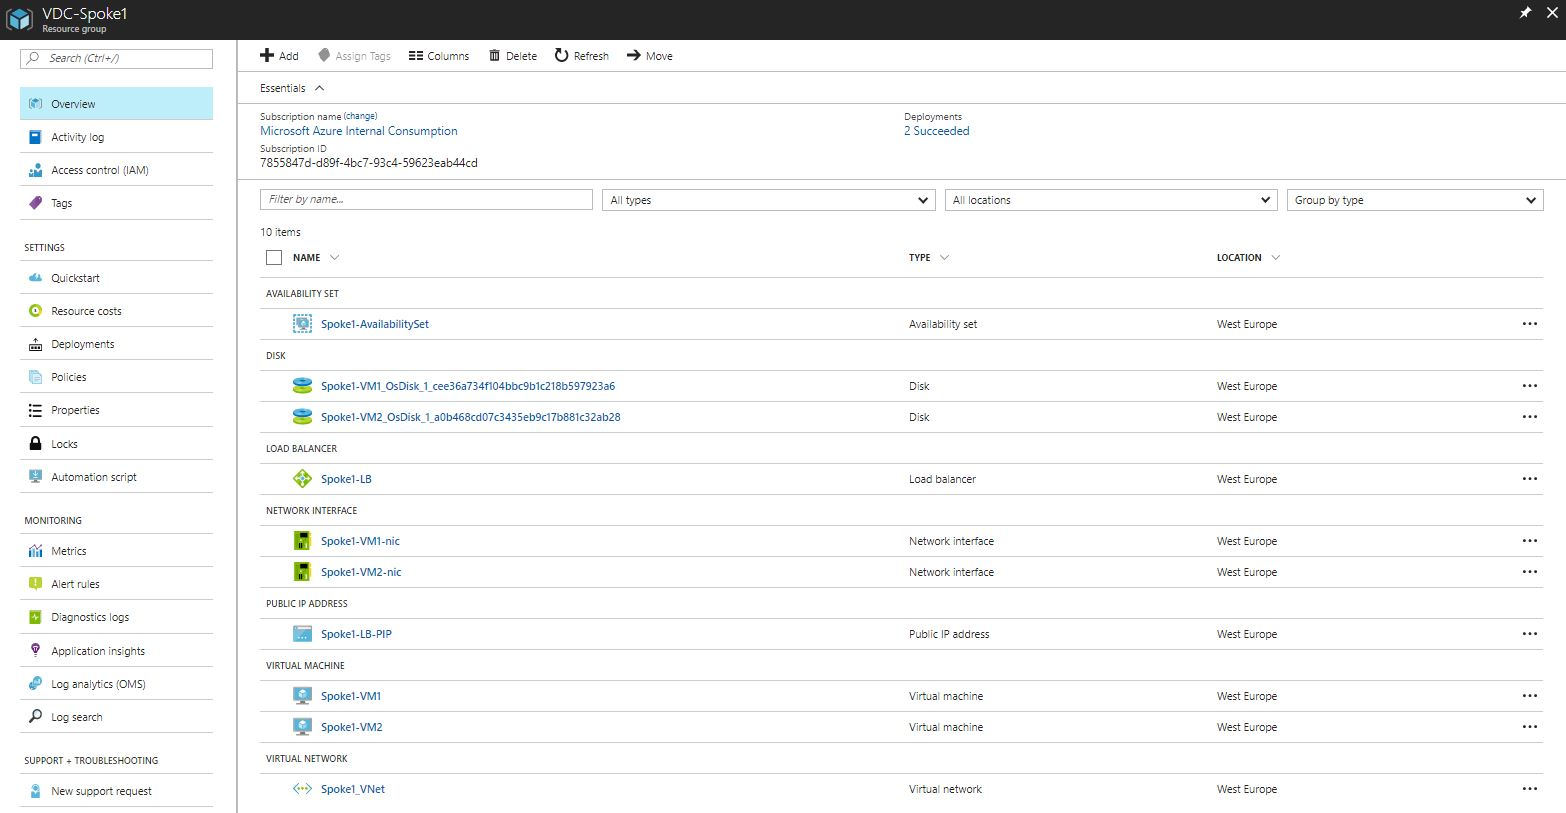
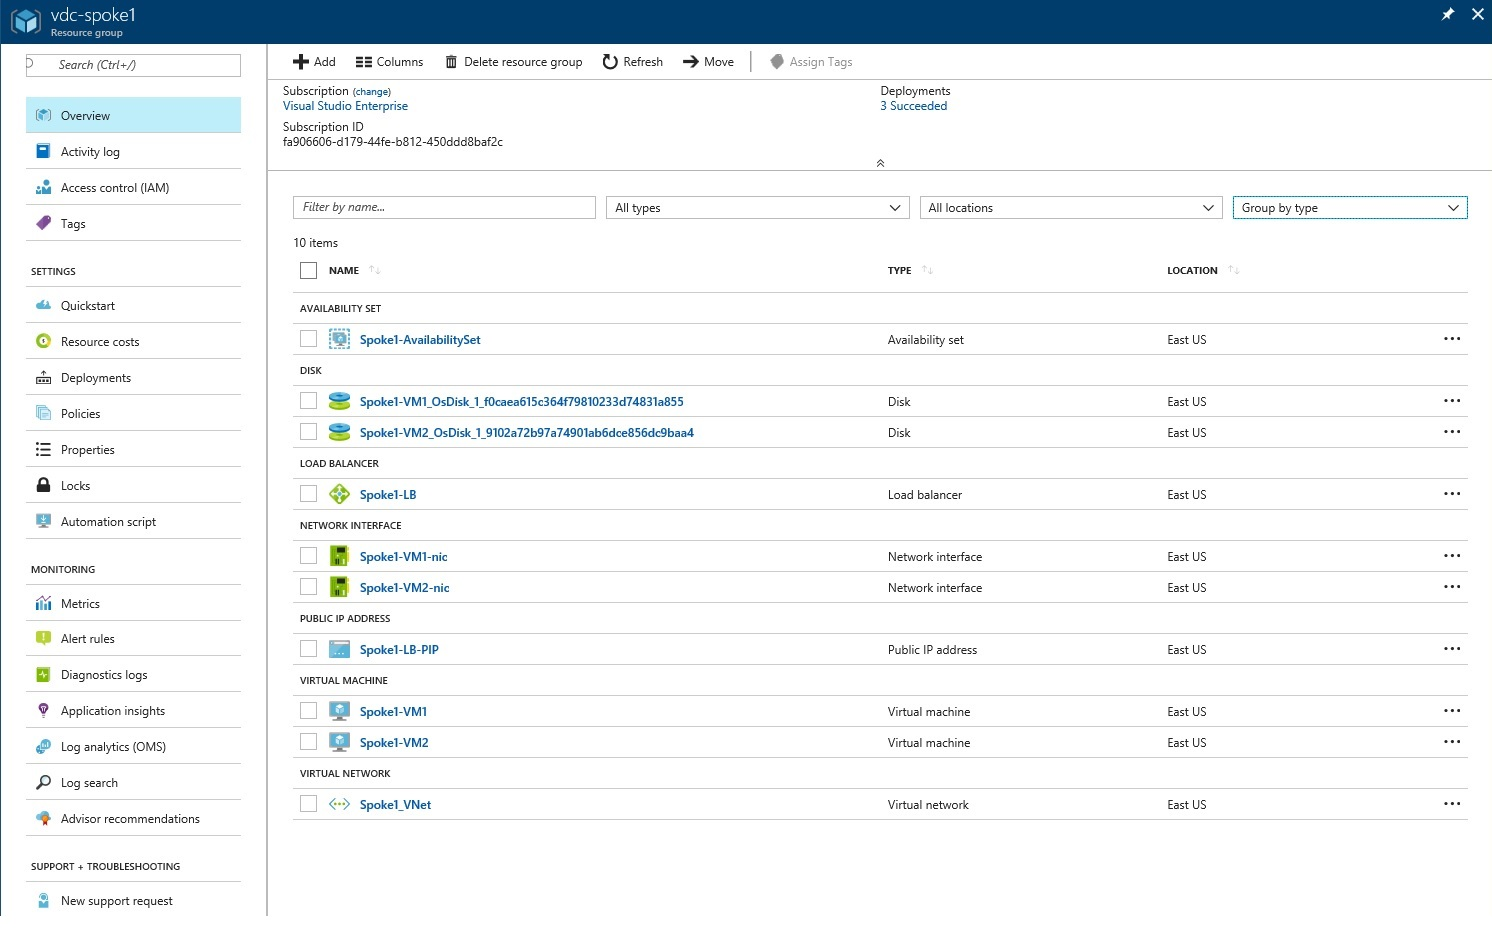
Resolve Spoke1
Issue with ARM template ability to build Spoke1 concurrently

diff --git a/readme.md b/readme.md
@@ -62,8 +62,8 @@ More information on VDCs can be found at the following link:
 
 Before proceeding with this lab, please make sure you have fulfilled all of the following prerequisites:
 
-- A valid subscription to Azure. If you don't currently have a subscription, consider setting up a free trial (https://azure.microsoft.com/en-gb/free/). Please note however that some free trial accounts have been found to have limits on the number of compute cores available - if this is the case, it may not be possible to create the virtual machines required for this lab (6 VMs).
-- Access to the Azure CLI 2.0. You can achieve this in one of two ways: either by installing the CLI on the Windows 10 Bash shell (https://docs.microsoft.com/en-us/cli/azure/install-azure-cli), or by using the built-in Cloud Shell in the Azure portal - you can access this by clicking on the ">_" symbol in the top right corner of the portal.
+- A valid subscription to Azure. If you don't currently have a subscription, consider setting up a free trial (https://azure.microsoft.com/en-us/free/). Please note however that some free trial accounts have been found to have limits on the number of compute cores available - if this is the case, it may not be possible to create the virtual machines required for this lab (6 VMs).
+- Access to the Azure CLI 2.0. You can achieve this in one of two ways: either by installing the CLI on the Windows 10 Bash shell (https://docs.microsoft.com/en-us/cli/azure/install-azure-cli), or by using the built-in Cloud Shell in the Azure portal - you can access this by clicking on the ">_" symbol in the top right corner of the portal or connecting to (https://shell.azure.com).
 
 # Initial Lab Setup <a name="setup"></a>
 
@@ -85,10 +85,10 @@ The above command will provide a code as output. Open a browser and navigate to 
 **2)** Use the Azure CLI to create five resource groups: *VDC-Hub*, *VDC-Spoke1*, *VDC-Spoke2*, *VDC-OnPrem* and *VDC-NVA* . Note that the resource groups *must* be named exactly as shown here to ensure that the ARM templates deploy correctly. Use the following CLI command to achieve this:
 
 <pre lang="...">
-for rg in Hub Spoke1 Spoke2 OnPrem NVA; do az group create -l westeurope -n VDC-$rg; done
+for rg in Hub Spoke1 Spoke2 OnPrem NVA; do az group create -l eastus -n "VDC-$rg"; done
 </pre>
 
-**3)** Once the resource groups have been deployed, you can deploy the main lab environment into these using a set of pre-defined ARM templates. The templates are available at https://github.com/Araffe/vdc-networking-lab if you wish to learn more about how the lab is defined. Essentially, a single master template (*VDC-Networking-Master.json*) is used to call a number of other templates, which in turn complete the deployment of virtual networks, virtual machines, load balancers, availability sets and VPN gateways. The templates also deploy a simple Node.js application on the spoke virtual machines. Use the following CLI command to deploy the template:
+**3)** Once the resource groups have been deployed, you can deploy the main lab environment into these using a set of pre-defined ARM templates. The templates are available at https://github.com/johnstel/AzureNetworkLab if you wish to learn more about how the lab is defined. Essentially, a single master template (*VDC-Networking-Master.json*) is used to call a number of other templates, which in turn complete the deployment of virtual networks, virtual machines, load balancers, availability sets and VPN gateways. The templates also deploy a simple Node.js application on the spoke virtual machines. Use the following CLI command to deploy the template:
 
 <pre lang="...">
 az group deployment create --name VDC-Create -g VDC-Hub --template-uri https://raw.githubusercontent.com/johnstel/AzureNetworkLab/master/VDC-Networking-Master.json
